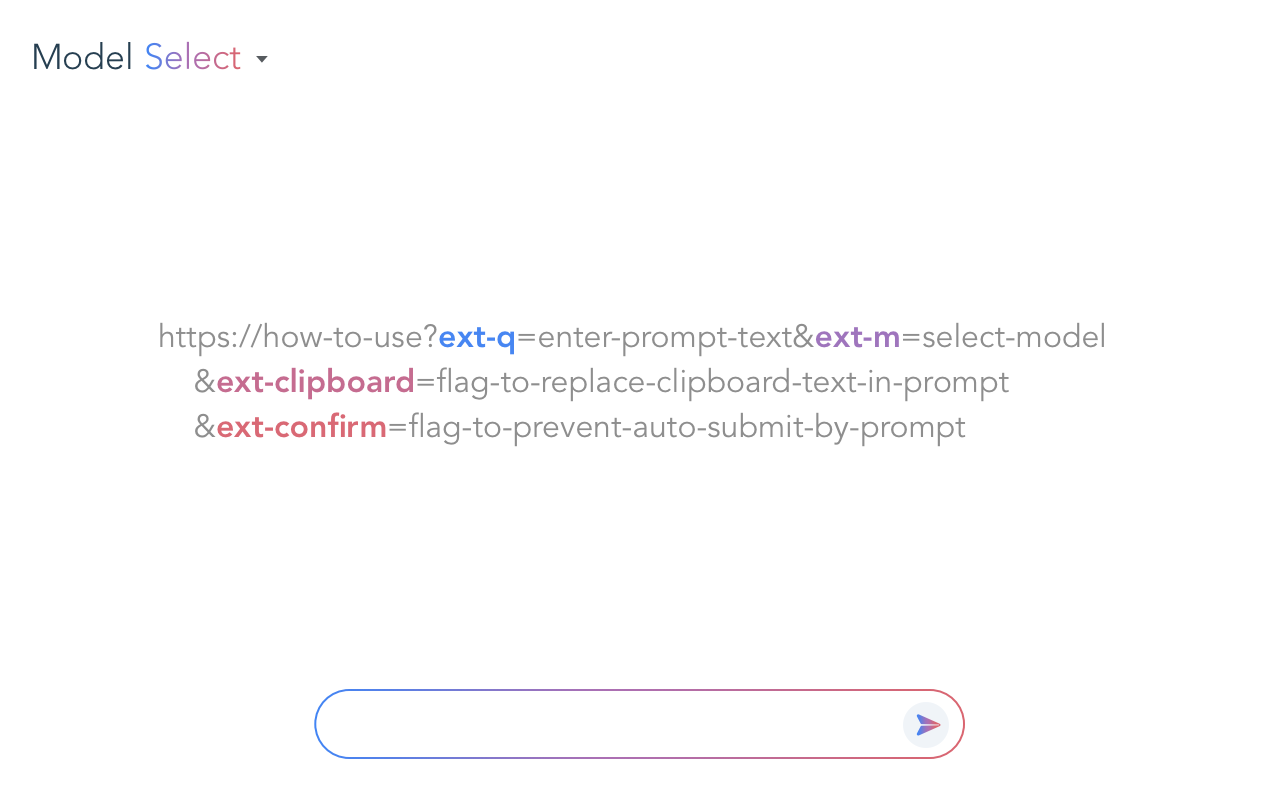
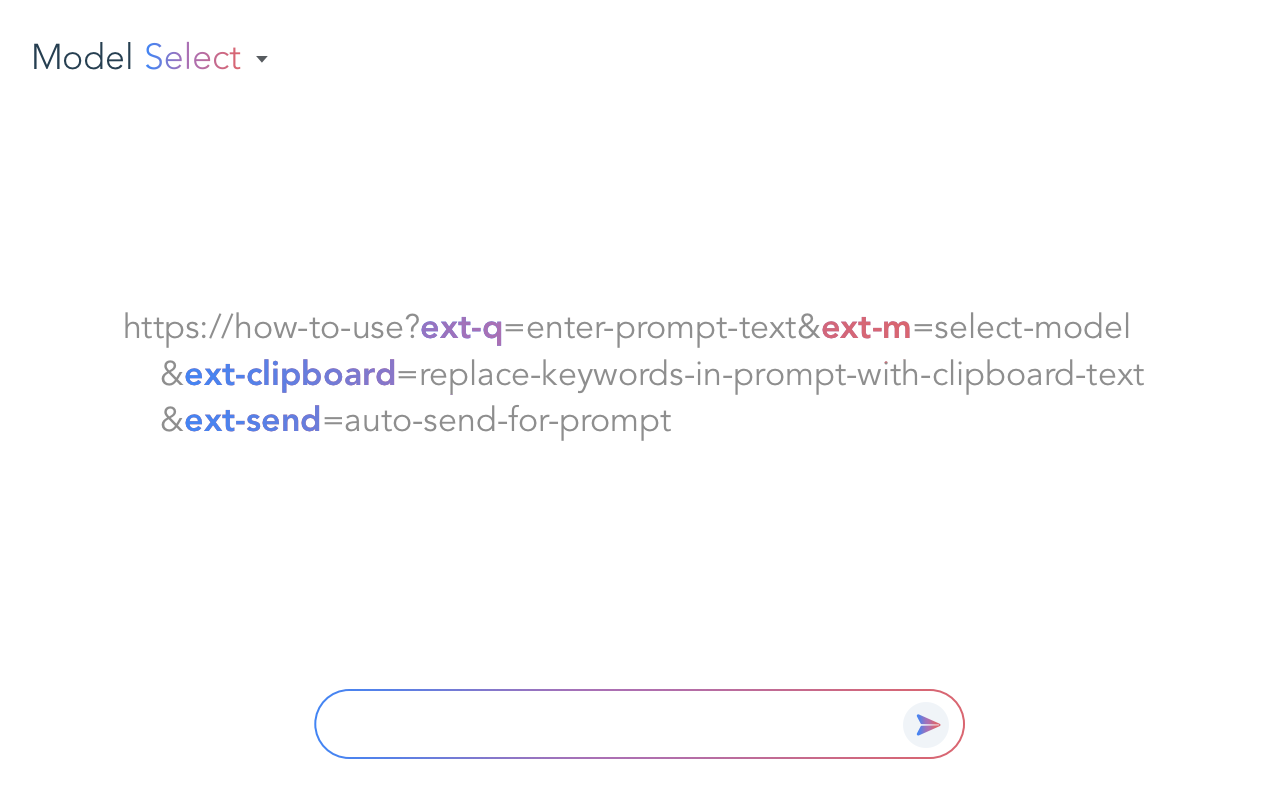
使い方の説明を更新

Changed region(s): [[0.0938, 0.375, 0.875, 0.5625]]

diff --git a/extension/html/popup.html b/extension/html/popup.html
@@ -33,7 +33,7 @@
             cursor: pointer;
             text-align: left;
             word-break: break-all;
-            width: 350px;
+            width: 400px;
         }
         .manual-url:hover {
             background-color: #e8e8e8;
@@ -121,14 +121,16 @@
     <p class="manual-url" id="manualUrl" localize-attr="data-tooltip:__MSG_popupManuelTooltip__">
         <strong localize>__MSG_popupManuelHeader__</strong><br>
         https://how-to-use?<span class="param-q">ext-q</span>=enter-prompt-text&<span class="param-m">ext-m</span>=select-model<br>
-        &<span class="param-clipboard">ext-clipboard</span>=flag-to-replace-clipboard-text-in-prompt<br>
-        &<span class="param-confirm">ext-confirm</span>=flag-to-prevent-auto-submit-by-prompt
+        &<span class="param-clipboard">ext-clipboard</span>=clipboard=replace-keywords-in-prompt-with-clipboard-text<br>
+        &<span class="param-confirm">ext-send</span>=auto-send-for-prompt
         <br><br>
         <span localize>__MSG_popupManuelCopy__</span>
     </p>
     <button id="urlGenerateButton" localize>__MSG_popupUrlGenerateButton__</button>
     <a href="https://github.com/mypicto/gemini-prompt-runner" target="_blank">GitHub Repository</a>
     <footer style="font-size: 10px; color: #666;" localize>__MSG_popupTrademarkGemini__</footer>
-    <script src="../js/popup.js"></script>
+    <script defer src="../js/utils/query-parameter.js"></script>
+    <script defer src="../js/models/model-query.js"></script>
+    <script defer src="../js/popup.js"></script>
 </body>
 </html>

diff --git a/extension/js/popup.js b/extension/js/popup.js
@@ -38,9 +38,13 @@ function handleManualUrlClick(event, localizeManager) {
   fetch(chrome.runtime.getURL(promptUrl))
     .then(response => response.text())
     .then(text => {
-      const urlObj = new URL('https://gemini.google.com/app');
-      urlObj.searchParams.set('ext-q', text);
-      chrome.tabs.create({ url: urlObj.toString() });
+      const locationMock = { origin: 'https://gemini.google.com', pathname: '/app' };
+      const queryParameter = new QueryParameter({
+        prompt: text,
+        modelQuery: new IdentifierModelQuery(0),
+        isAutoSend: true
+      });
+      chrome.tabs.create({ url: queryParameter.buildUrl(locationMock) });
     })
     .catch(error => {
       console.error('Failed to fetch prompt URL:', error);

diff --git a/README.md b/README.md
@@ -7,8 +7,8 @@
 ## 機能
 
 * URLのパラメータからプロンプトを自動実行（パラメータはサーバーに送信されず、ブラウザー内でセキュアに処理されます）
-  * クリップボードのテキストをプロンプトに挿入（オプション）
-  * プロンプトの自動送信を無効化（オプション）
+  * プロンプト内のキーワードをクリップボードのテキストに置き換える（オプション）
+  * プロンプトの自動送信（オプション）
 * URLのパラメータからモデルの選択
 * 現在のプロンプトと選択中のモデルから、Prompt Runner for Google Gemini で使うことのできるURLを生成
 * テキストを選択していない状態で `Ctrl + C` / `Cmd + C` キーを押すことで最後の回答をコピー
@@ -47,8 +47,8 @@
 https://how-to-use
     ?ext-q=enter-prompt-text
     &ext-m=select-model
-    &ext-clipboard=flag-to-replace-clipboard-text-in-prompt
-    &ext-confirm=flag-to-prevent-auto-submit-by-prompt
+    &ext-clipboard=replace-keywords-in-prompt-with-clipboard-text
+    &ext-send=auto-send-for-prompt
 
 Ctrl+C / Cmd+C: copy the last answer.
 ```
@@ -57,15 +57,15 @@ Ctrl+C / Cmd+C: copy the last answer.
 | --- | --- | --- |
 | `ext-q` | 実行するプロンプト文字列 | URLエンコードされたテキスト（`{{clipboard}}`キーワードでクリップボードのテキストを挿入） |
 | `ext-m` | 選択するモデルのインデックス | 0 から始まる整数（UI上での表示順）またはモデル名（UI上での表示名） |
-| `ext-clipboard` | `ext-q`の中で`{{clipboard}}`キーワードをクリップボードのテキストと置き換えます | `true/false` または `0/1` |
-| `ext-confirm` | `ext-q`パラメータによる自動送信の抑制 | `true/false` または `0/1` |
+| `ext-clipboard` | `ext-q`の中で`{{clipboard}}`キーワードをクリップボードのテキストと置き換える | `true/false` または `0/1` |
+| `ext-send` | プロンプトの自動送信 | `true/false` または `0/1` |
 
 ## サンプル
 
 * 今日の天気予報を質問
 
   ```url
-  https://gemini.google.com/app?ext-q=%E4%BB%8A%E6%97%A5%E3%81%AE%E5%A4%A9%E6%B0%97%E4%BA%88%E5%A0%B1%E3%80%82
+  https://gemini.google.com/app?ext-q=%E4%BB%8A%E6%97%A5%E3%81%AE%E5%A4%A9%E6%B0%97%E4%BA%88%E5%A0%B1%E3%80%82$ext-send=1
   ```
 
 * 2番目のモデルでチャットを開始
@@ -83,7 +83,7 @@ Ctrl+C / Cmd+C: copy the last answer.
 * クリップボードのテキストを要約する
 
   ```url
-  https://gemini.google.com/app?ext-q=%E5%85%A5%E5%8A%9B%E3%81%95%E3%82%8C%E3%81%9F%E3%83%86%E3%82%AD%E3%82%B9%E3%83%88%E3%82%92%E8%A6%81%E7%B4%84%E3%81%99%E3%82%8B%E3%80%82%0A%0A%2A%2AInput%3A%2A%2A%0A%7B%7Bclipboard%7D%7D&ext-clipboard=1&ext-confirm=1
+  https://gemini.google.com/app?ext-q=%E5%85%A5%E5%8A%9B%E3%81%95%E3%82%8C%E3%81%9F%E3%83%86%E3%82%AD%E3%82%B9%E3%83%88%E3%82%92%E8%A6%81%E7%B4%84%E3%81%99%E3%82%8B%E3%80%82%0A%0A%2A%2AInput%3A%2A%2A%0A%7B%7Bclipboard%7D%7D&ext-clipboard=1
   ```
 
 ## Mac ショートカットアプリとの連携
